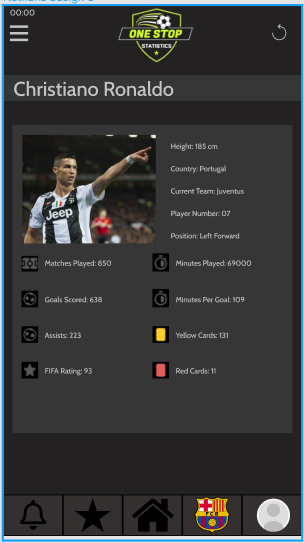
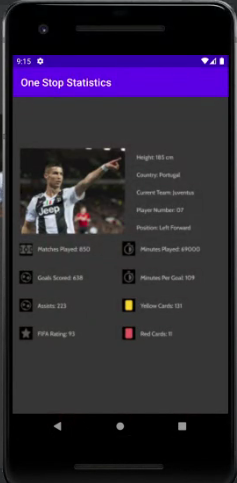
outcomes

diff --git a/assignment3/Assignment3/html/outcomes.html b/assignment3/Assignment3/html/outcomes.html
@@ -39,67 +39,87 @@
   <div class="content-block">
       <div class="mvf">
     <h1>Minimun Feature: Player Cards</h1>
-    <div class="featureDesign">
-      <img src="../images/Player_card.png" alt="Player Card">
-    </div>
     <div class="featureBlurb">
       <h2>Outcome:</h2>
       <p>For the feature of the player Cards/player list we expected to have it completed by the end of the time frame. in a way this feature was completed as it was functioning in the emulator with a clickable list that led to a player card with statistics of that player. however it was not put together to run with the other features. </p>
     
     
       </div>
+          <table>
+        <tr>
+            <th class= "picture"><img src="../images/player_card.png" alt= "Player Card"></th>
+          <th class= "picture"><img src="../images/player_list.png" alt= "Player List"></th>
+            
+        </tr>
+          </table>
       
       </div>
       <div class="mvf">
     <h1>Minimun Feature: Accounts</h1>
-    <div class="featureDesign">
-      <img src="../images/Player_card.png" alt="Player Card">
-    </div>
+    
     <div class="featureBlurb">
       <h2>Outcome:</h2>
-      <p>This feature again was able to be completed to the point of a useable UI in the emulator however we wouldve liked to have a database setup so that user data could be saved however it was only completed to the point where an account could be hardcoded into the application to login and also to display account information. Along with this we also were unnable to merge it with the other features because of the different formats used for each feature.</p>
+      <p>This feature again was able to be completed to the point of a useable UI in the emulator. what we also managed to complete was the successful implementation of a local database so that a username and password can be saved and then used to log in to the app. However the login page was unable to be joined with other sectoions of the app.</p>
     
     
       </div>
-      
+      <table>
+        <tr>
+            <th class= "picture"><img src="../images/login.png" alt= "Player Card"></th>
+          <th class= "picture"><img src="../images/register.png" alt= "Player List"></th>
+            
+        </tr>
+          </table>
       </div>
        <div class="mvf">
     <h1>Minimun Feature: Voice Assistance</h1>
-    <div class="featureDesign">
-      <img src="../images/Player_card.png" alt="Player Card">
-    </div>
+    
     <div class="featureBlurb">
       <h2>Outcome:</h2>
-      <p>The voice assistance feature was completed to the point where you could speak into it and it would register however because this section of the app wasnt connected to other features it had nothing to search for so output was not possible.</p>
+      <p>The voice assistance feature was completed to the point where you could speak into it and then the assistant would print the output onto the page. If there was more time the feature could have been merged with the others allowing for a voice search of the entrie application. </p>
     
     
       </div>
-      
+      <table>
+        <tr>
+            <th class= "picture"><img src="../images/mic.png" alt= "Player Card"></th>
+          <th class= "picture"><img src="../images/output.png" alt= "Player List"></th>
+            
+        </tr>
+          </table>
       </div>
        <div class="mvf">
     <h1>Minimun Feature: Favourites</h1>
-    <div class="featureDesign">
-      <img src="../images/Player_card.png" alt="Player Card">
-    </div>
+    
     <div class="featureBlurb">
       <h2>Outcome:</h2>
-      <p>The favorites page ran into a few complications because the code was not displaying any issues however when tested in the emulator it would crash so the feature its self never made it out of the development phase. Given more time this is something we could solve as we would have time to research a number of different possible solutions to input and test.</p>
+      <p>The favorites was not displaying any issues however when tested in the emulator it would crash so the feature its self never made it out of the development phase. Given more time this is something we could solve as we would have time to research a number of different possible solutions to input and test.</p>
     
     
       </div>
-      
+      <table>
+        <tr>
+            <th class= "picture"><img src="../images/favourites.png" alt= "Player Card"></th>
+                      
+        </tr>
+          </table>
       </div>
        <div class="mvf">
     <h1>Minimun Feature: Burger Menu</h1>
-    <div class="featureDesign">
-      <img src="../images/Player_card.png" alt="Player Card">
-    </div>
+    
     <div class="featureBlurb">
       <h2>Outcome:</h2>
-      <p>The burger menu encountered a number of problems however was completed to an extent where links were available and pages could be linked however once the page was clicked it would crash the app. We think this was because some things were formatted as fragments and others as activities making them incompatible. Given more time this issue definitely could have been over-come.</p>
+      <p>The burger menu was completed and pages could be linked to the individual menu items however when the menu item was clicked and the new page opened it would crash. We think this was because some things were formatted as fragments and others as activities making them incompatible. Given more time this issue definitely could have been over-come.</p>
     
     
       </div>
+       <table>
+        <tr>
+            <th class= "picture"><img src="../images/burger_menu.png" alt= "Player Card"></th>
+          
+            
+        </tr>
+          </table>
       
       </div>
     </div>

diff --git a/assignment3/Assignment3/stylesheets/playerCards.css b/assignment3/Assignment3/stylesheets/playerCards.css
@@ -33,7 +33,7 @@
     width:65%;
     padding-left: 10px;
 }
- table, th, td {
+table, th, td {
     border: 1px solid black;
     border-collapse: collapse;
   }
@@ -42,11 +42,17 @@
     padding: 15px;
   }
   
-  th {
-    text-align: left;
-  }
+  
   
   table {
     border-spacing: 5px;
-    width: 100%;
+    width:100%
   }
+.picture {
+    width: 200px;
+     
+ }
+ .picture img{
+     width: 200px;
+     height: auto;
+ }

diff --git a/assignment3/Assignment3/stylesheets/project_progress.css b/assignment3/Assignment3/stylesheets/project_progress.css
@@ -30,10 +30,10 @@
     width:100%
   }
 .picture {
-    width: 20%;
+    width: 200px;
      
  }
  .picture img{
-     width: 100%;
+     width: 200px;
      height: auto;
  }
